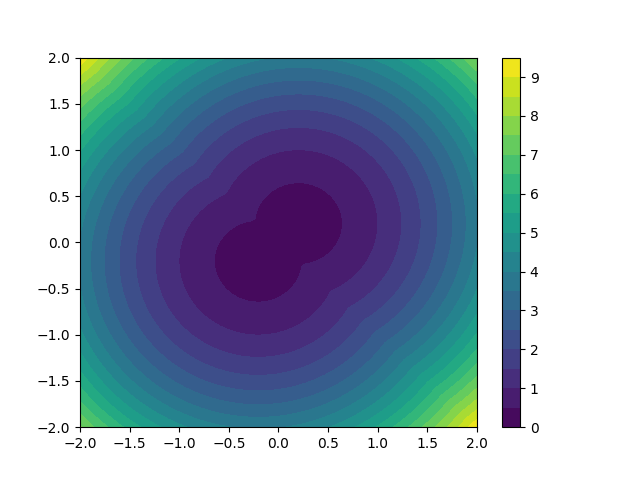
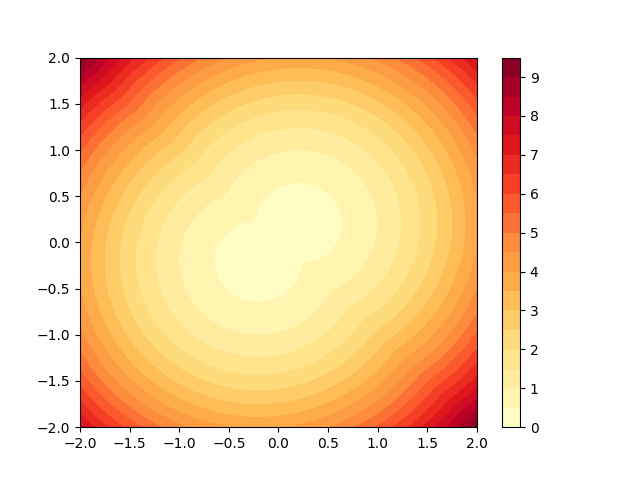
more media upload

diff --git a/minplusNN_eg2.py b/minplusNN_eg2.py
@@ -258,7 +258,8 @@ if plotSflag:
     print('printS start')
     plt.figure()
     if n>1:
-        a = plt.contourf(xv, yv, np.reshape(S_resnet_val, (nx, ny)), 20)
+        mycmap = plt.get_cmap('YlOrRd')
+        a = plt.contourf(xv, yv, np.reshape(S_resnet_val, (nx, ny)), 20, cmap=mycmap)
         plt.colorbar(a)
     else:
         plt.plot(x_grid, np.reshape(S_resnet_val, (Ndata)))

diff --git a/minplusNN_eg1.py b/minplusNN_eg1.py
@@ -263,7 +263,8 @@ print('Time: ', end - start)
 if plotSflag:
     if n>1:
         plt.figure()
-        a = plt.contourf(xv, yv, np.reshape(S_resnet_val, (nx, ny)), 20)
+        mycmap = plt.get_cmap('YlOrRd')
+        a = plt.contourf(xv, yv, np.reshape(S_resnet_val, (nx, ny)), 20, cmap=mycmap)
         plt.colorbar(a)
         plt.savefig(filenameS)
     else:
